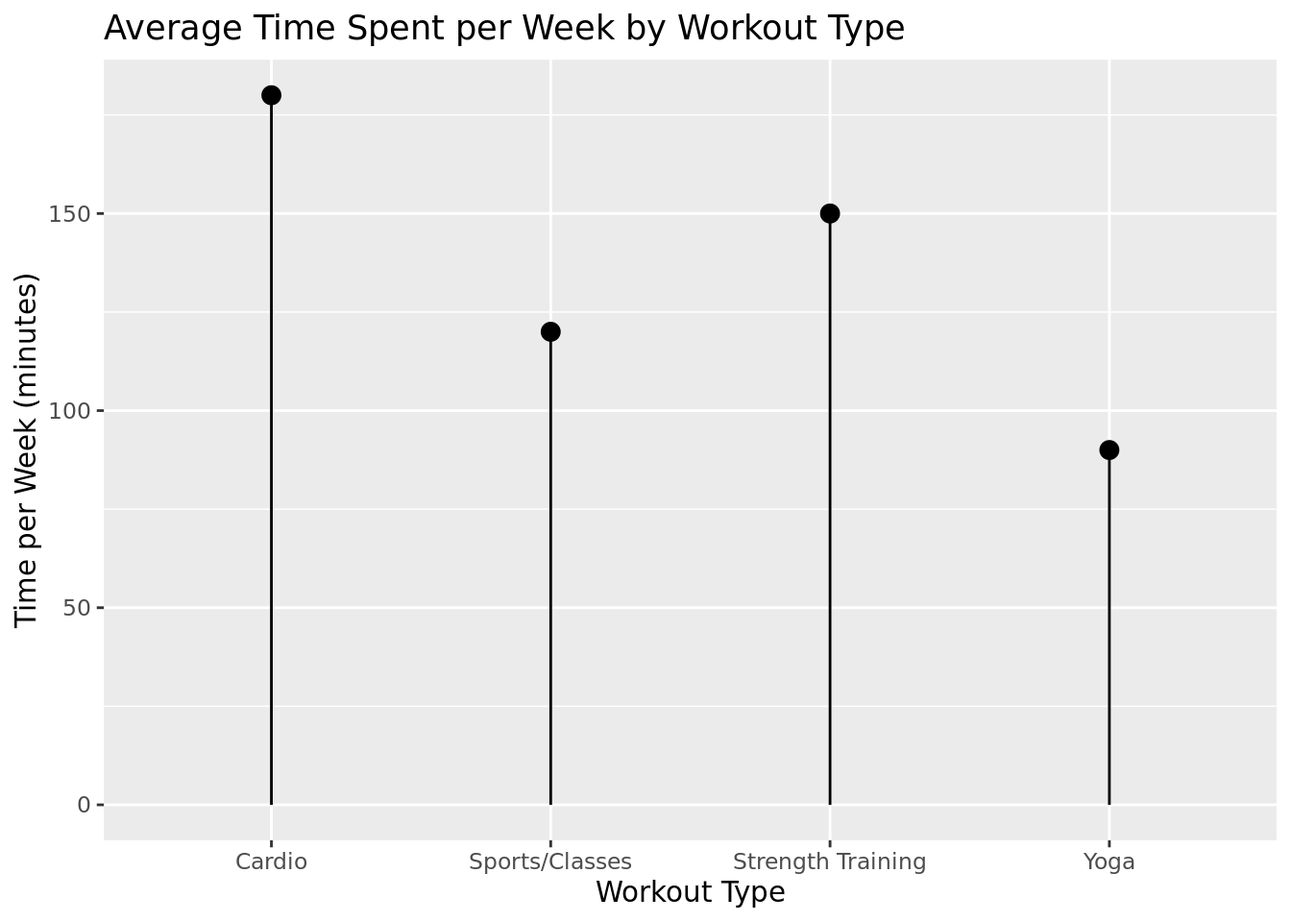
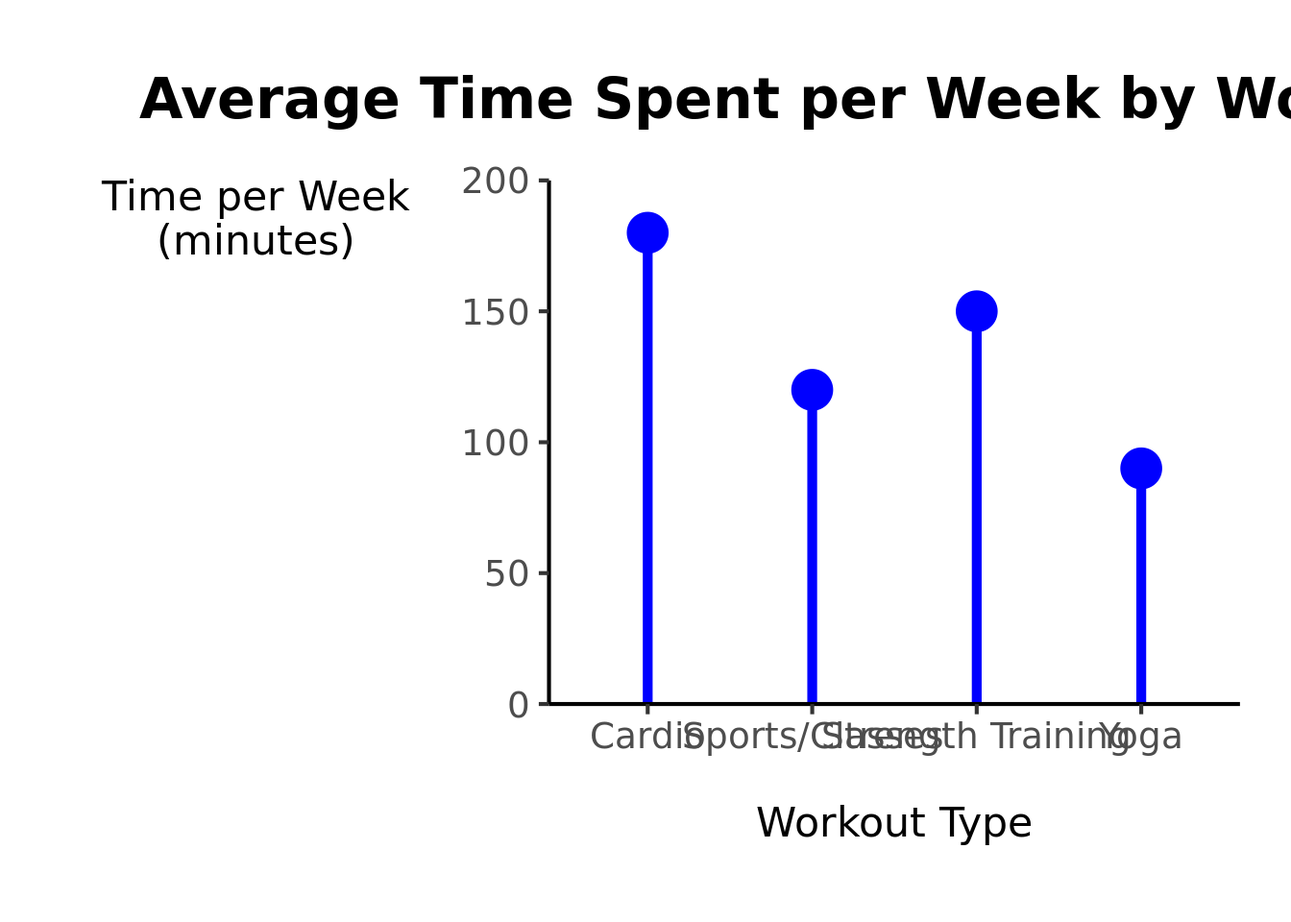
Updated scatter plot

diff --git a/project-r-code.html b/project-r-code.html
@@ -297,12 +297,41 @@ dbl (2): notebook_price, median_household_income
 </div>
 </div>
 </div>
+<p>Bar chart example:</p>
+<div class="cell">
+<div class="sourceCode cell-code" id="cb39"><pre class="sourceCode r code-with-copy"><code class="sourceCode r"><span id="cb39-1"><a href="#cb39-1" aria-hidden="true" tabindex="-1"></a>garden_data <span class="sc">|&gt;</span></span>
+<span id="cb39-2"><a href="#cb39-2" aria-hidden="true" tabindex="-1"></a>  <span class="fu">mutate</span>(<span class="at">site_location =</span> <span class="fu">ifelse</span>(site_location <span class="sc">==</span> <span class="st">"Centralish"</span>, </span>
+<span id="cb39-3"><a href="#cb39-3" aria-hidden="true" tabindex="-1"></a>                                <span class="st">"Central"</span>, site_location)) <span class="sc">|&gt;</span></span>
+<span id="cb39-4"><a href="#cb39-4" aria-hidden="true" tabindex="-1"></a>  <span class="fu">ggplot</span>(<span class="fu">aes</span>(<span class="at">x =</span> site_location, <span class="at">y =</span> current_volunteer_count)) <span class="sc">+</span></span>
+<span id="cb39-5"><a href="#cb39-5" aria-hidden="true" tabindex="-1"></a>  <span class="fu">geom_col</span>(<span class="at">fill =</span> <span class="st">"steelblue"</span>, <span class="at">width =</span> <span class="fl">0.4</span>) <span class="sc">+</span></span>
+<span id="cb39-6"><a href="#cb39-6" aria-hidden="true" tabindex="-1"></a>  <span class="fu">scale_y_continuous</span>(<span class="at">breaks =</span> <span class="fu">c</span>(<span class="dv">0</span>, <span class="dv">25</span>, <span class="dv">50</span>, <span class="dv">75</span>, <span class="dv">100</span>), </span>
+<span id="cb39-7"><a href="#cb39-7" aria-hidden="true" tabindex="-1"></a>                     <span class="at">expand =</span> <span class="fu">expansion</span>(<span class="at">mult =</span> <span class="fu">c</span>(<span class="dv">0</span>, <span class="fl">0.05</span>))) <span class="sc">+</span></span>
+<span id="cb39-8"><a href="#cb39-8" aria-hidden="true" tabindex="-1"></a>  <span class="fu">labs</span>(<span class="at">x =</span> <span class="st">"Site Location"</span>, <span class="at">y =</span> <span class="st">"Volunteers"</span>, </span>
+<span id="cb39-9"><a href="#cb39-9" aria-hidden="true" tabindex="-1"></a>  <span class="at">title =</span> <span class="st">"Current Volunteer Count by Garden Site"</span>) <span class="sc">+</span></span>
+<span id="cb39-10"><a href="#cb39-10" aria-hidden="true" tabindex="-1"></a>  <span class="fu">theme_classic</span>() <span class="sc">+</span></span>
+<span id="cb39-11"><a href="#cb39-11" aria-hidden="true" tabindex="-1"></a>  <span class="fu">theme</span>(</span>
+<span id="cb39-12"><a href="#cb39-12" aria-hidden="true" tabindex="-1"></a>    <span class="at">axis.text.x =</span> <span class="fu">element_text</span>(<span class="at">size =</span> <span class="dv">14</span>),  <span class="co"># Bigger x-axis labels</span></span>
+<span id="cb39-13"><a href="#cb39-13" aria-hidden="true" tabindex="-1"></a>    <span class="at">axis.title.x =</span> <span class="fu">element_text</span>(<span class="at">size =</span> <span class="dv">16</span>),</span>
+<span id="cb39-14"><a href="#cb39-14" aria-hidden="true" tabindex="-1"></a>    <span class="at">axis.title.y =</span> <span class="fu">element_text</span>(<span class="at">size =</span> <span class="dv">16</span>, <span class="at">angle =</span> <span class="dv">0</span>, <span class="at">vjust =</span> <span class="fl">1.05</span>, <span class="at">hjust =</span> <span class="dv">0</span>),</span>
+<span id="cb39-15"><a href="#cb39-15" aria-hidden="true" tabindex="-1"></a>    <span class="at">plot.title =</span> <span class="fu">element_text</span>(<span class="at">face =</span> <span class="st">"bold"</span>, <span class="at">hjust =</span> <span class="fl">0.5</span>),</span>
+<span id="cb39-16"><a href="#cb39-16" aria-hidden="true" tabindex="-1"></a>    <span class="at">panel.grid.major =</span> <span class="fu">element_blank</span>(),  <span class="co"># Remove major gridlines</span></span>
+<span id="cb39-17"><a href="#cb39-17" aria-hidden="true" tabindex="-1"></a>    <span class="at">panel.grid.minor =</span> <span class="fu">element_blank</span>()   <span class="co"># Remove minor gridlines</span></span>
+<span id="cb39-18"><a href="#cb39-18" aria-hidden="true" tabindex="-1"></a>  )</span></code><button title="Copy to Clipboard" class="code-copy-button"><i class="bi"></i></button></pre></div>
+<div class="cell-output-display">
+<div>
+<figure class="figure">
+<p><img src="project-r-code_files/figure-html/garden-bar-chart-1.png" class="img-fluid figure-img" width="672"></p>
+</figure>
+</div>
+</div>
+<div class="sourceCode cell-code" id="cb40"><pre class="sourceCode r code-with-copy"><code class="sourceCode r"><span id="cb40-1"><a href="#cb40-1" aria-hidden="true" tabindex="-1"></a><span class="fu">ggsave</span>(<span class="st">"garden_barchart.png"</span>, <span class="at">device =</span> <span class="st">"png"</span>, <span class="at">width =</span> <span class="dv">8</span>, <span class="at">height =</span> <span class="dv">5</span>)</span></code><button title="Copy to Clipboard" class="code-copy-button"><i class="bi"></i></button></pre></div>
+</div>
 <p>Scatter Plot Template:</p>
 <div class="cell">
-<div class="sourceCode cell-code" id="cb39"><pre class="sourceCode r code-with-copy"><code class="sourceCode r"><span id="cb39-1"><a href="#cb39-1" aria-hidden="true" tabindex="-1"></a><span class="fu">ggplot</span>() <span class="sc">+</span> </span>
-<span id="cb39-2"><a href="#cb39-2" aria-hidden="true" tabindex="-1"></a>  <span class="fu">geom_point</span>() <span class="sc">+</span></span>
-<span id="cb39-3"><a href="#cb39-3" aria-hidden="true" tabindex="-1"></a>  <span class="fu">labs</span>() <span class="sc">+</span></span>
-<span id="cb39-4"><a href="#cb39-4" aria-hidden="true" tabindex="-1"></a>  <span class="fu">theme_minimal</span>()</span></code><button title="Copy to Clipboard" class="code-copy-button"><i class="bi"></i></button></pre></div>
+<div class="sourceCode cell-code" id="cb41"><pre class="sourceCode r code-with-copy"><code class="sourceCode r"><span id="cb41-1"><a href="#cb41-1" aria-hidden="true" tabindex="-1"></a><span class="fu">ggplot</span>() <span class="sc">+</span> </span>
+<span id="cb41-2"><a href="#cb41-2" aria-hidden="true" tabindex="-1"></a>  <span class="fu">geom_point</span>() <span class="sc">+</span></span>
+<span id="cb41-3"><a href="#cb41-3" aria-hidden="true" tabindex="-1"></a>  <span class="fu">labs</span>() <span class="sc">+</span></span>
+<span id="cb41-4"><a href="#cb41-4" aria-hidden="true" tabindex="-1"></a>  <span class="fu">theme_minimal</span>()</span></code><button title="Copy to Clipboard" class="code-copy-button"><i class="bi"></i></button></pre></div>
 <div class="cell-output-display">
 <div>
 <figure class="figure">
@@ -311,42 +340,57 @@ dbl (2): notebook_price, median_household_income
 </div>
 </div>
 </div>
+<p>Scatter Plot Example</p>
 <div class="cell">
-<div class="sourceCode cell-code" id="cb40"><pre class="sourceCode r code-with-copy"><code class="sourceCode r"><span id="cb40-1"><a href="#cb40-1" aria-hidden="true" tabindex="-1"></a>volume_data <span class="ot">&lt;-</span> spotify_data <span class="sc">%&gt;%</span> </span>
-<span id="cb40-2"><a href="#cb40-2" aria-hidden="true" tabindex="-1"></a>  <span class="fu">filter</span>(Measure <span class="sc">==</span> <span class="st">"AvgVolumeLevel"</span>)</span>
-<span id="cb40-3"><a href="#cb40-3" aria-hidden="true" tabindex="-1"></a></span>
-<span id="cb40-4"><a href="#cb40-4" aria-hidden="true" tabindex="-1"></a>volume_data <span class="ot">&lt;-</span> volume_data <span class="sc">%&gt;%</span> </span>
-<span id="cb40-5"><a href="#cb40-5" aria-hidden="true" tabindex="-1"></a>  <span class="fu">mutate</span>(<span class="at">TimeOfDay =</span> <span class="fu">factor</span>(TimeOfDay, </span>
-<span id="cb40-6"><a href="#cb40-6" aria-hidden="true" tabindex="-1"></a>                            <span class="at">levels =</span> <span class="fu">c</span>(<span class="st">"Morning"</span>, <span class="st">"Afternoon"</span>, <span class="st">"Evening"</span>, <span class="st">"Night"</span>)))</span>
-<span id="cb40-7"><a href="#cb40-7" aria-hidden="true" tabindex="-1"></a></span>
-<span id="cb40-8"><a href="#cb40-8" aria-hidden="true" tabindex="-1"></a><span class="co">#| label: scatter-plot-template</span></span>
-<span id="cb40-9"><a href="#cb40-9" aria-hidden="true" tabindex="-1"></a><span class="fu">ggplot</span>(volume_data, <span class="fu">aes</span>(<span class="at">x =</span> TimeOfDay, <span class="at">y =</span> Value)) <span class="sc">+</span> </span>
-<span id="cb40-10"><a href="#cb40-10" aria-hidden="true" tabindex="-1"></a>  <span class="fu">geom_point</span>() <span class="sc">+</span></span>
-<span id="cb40-11"><a href="#cb40-11" aria-hidden="true" tabindex="-1"></a>  <span class="fu">scale_y_continuous</span>(<span class="at">limits =</span> <span class="fu">c</span>(<span class="dv">0</span>, <span class="dv">100</span>)) <span class="sc">+</span></span>
-<span id="cb40-12"><a href="#cb40-12" aria-hidden="true" tabindex="-1"></a>  <span class="fu">labs</span>(</span>
-<span id="cb40-13"><a href="#cb40-13" aria-hidden="true" tabindex="-1"></a>    <span class="at">title =</span> <span class="st">"Average Volume Level by Time of Day"</span>,</span>
-<span id="cb40-14"><a href="#cb40-14" aria-hidden="true" tabindex="-1"></a>    <span class="at">x =</span> <span class="st">"Time of Day"</span>,</span>
-<span id="cb40-15"><a href="#cb40-15" aria-hidden="true" tabindex="-1"></a>    <span class="at">y =</span> <span class="st">"Average Volume Level (dB)"</span></span>
-<span id="cb40-16"><a href="#cb40-16" aria-hidden="true" tabindex="-1"></a>  ) <span class="sc">+</span></span>
-<span id="cb40-17"><a href="#cb40-17" aria-hidden="true" tabindex="-1"></a>  <span class="fu">theme_minimal</span>()</span></code><button title="Copy to Clipboard" class="code-copy-button"><i class="bi"></i></button></pre></div>
+<div class="sourceCode cell-code" id="cb42"><pre class="sourceCode r code-with-copy"><code class="sourceCode r"><span id="cb42-1"><a href="#cb42-1" aria-hidden="true" tabindex="-1"></a>volume_data <span class="ot">&lt;-</span> spotify_data <span class="sc">%&gt;%</span> </span>
+<span id="cb42-2"><a href="#cb42-2" aria-hidden="true" tabindex="-1"></a>  <span class="fu">filter</span>(Measure <span class="sc">==</span> <span class="st">"AvgVolumeLevel"</span>)</span>
+<span id="cb42-3"><a href="#cb42-3" aria-hidden="true" tabindex="-1"></a></span>
+<span id="cb42-4"><a href="#cb42-4" aria-hidden="true" tabindex="-1"></a>volume_data <span class="ot">&lt;-</span> volume_data <span class="sc">%&gt;%</span> </span>
+<span id="cb42-5"><a href="#cb42-5" aria-hidden="true" tabindex="-1"></a>  <span class="fu">mutate</span>(<span class="at">TimeOfDay =</span> <span class="fu">factor</span>(TimeOfDay, </span>
+<span id="cb42-6"><a href="#cb42-6" aria-hidden="true" tabindex="-1"></a>                            <span class="at">levels =</span> <span class="fu">c</span>(<span class="st">"Morning"</span>, <span class="st">"Afternoon"</span>, <span class="st">"Evening"</span>, <span class="st">"Night"</span>)))</span>
+<span id="cb42-7"><a href="#cb42-7" aria-hidden="true" tabindex="-1"></a></span>
+<span id="cb42-8"><a href="#cb42-8" aria-hidden="true" tabindex="-1"></a><span class="co">#| label: scatter-plot-template</span></span>
+<span id="cb42-9"><a href="#cb42-9" aria-hidden="true" tabindex="-1"></a><span class="fu">ggplot</span>(volume_data, <span class="fu">aes</span>(<span class="at">x =</span> TimeOfDay, <span class="at">y =</span> Value)) <span class="sc">+</span> </span>
+<span id="cb42-10"><a href="#cb42-10" aria-hidden="true" tabindex="-1"></a>  <span class="fu">geom_point</span>(<span class="at">color =</span> <span class="st">"blue"</span>, <span class="at">size =</span> <span class="dv">7</span>) <span class="sc">+</span></span>
+<span id="cb42-11"><a href="#cb42-11" aria-hidden="true" tabindex="-1"></a>  <span class="fu">scale_y_continuous</span>(<span class="at">limits =</span> <span class="fu">c</span>(<span class="dv">0</span>, <span class="dv">100</span>)) <span class="sc">+</span></span>
+<span id="cb42-12"><a href="#cb42-12" aria-hidden="true" tabindex="-1"></a>  <span class="fu">labs</span>(</span>
+<span id="cb42-13"><a href="#cb42-13" aria-hidden="true" tabindex="-1"></a>    <span class="at">title =</span> <span class="st">"Average Volume Level by Time of Day"</span>,</span>
+<span id="cb42-14"><a href="#cb42-14" aria-hidden="true" tabindex="-1"></a>    <span class="at">x =</span> <span class="st">" "</span>,</span>
+<span id="cb42-15"><a href="#cb42-15" aria-hidden="true" tabindex="-1"></a>    <span class="at">y =</span> <span class="st">"Volume Level</span><span class="sc">\n</span><span class="st">(dB)"</span></span>
+<span id="cb42-16"><a href="#cb42-16" aria-hidden="true" tabindex="-1"></a>  ) <span class="sc">+</span></span>
+<span id="cb42-17"><a href="#cb42-17" aria-hidden="true" tabindex="-1"></a>  <span class="fu">theme_classic</span>() <span class="sc">+</span></span>
+<span id="cb42-18"><a href="#cb42-18" aria-hidden="true" tabindex="-1"></a>  <span class="fu">theme</span>(</span>
+<span id="cb42-19"><a href="#cb42-19" aria-hidden="true" tabindex="-1"></a>  <span class="at">axis.text.x =</span> <span class="fu">element_text</span>(<span class="at">size =</span> <span class="dv">14</span>),</span>
+<span id="cb42-20"><a href="#cb42-20" aria-hidden="true" tabindex="-1"></a>  <span class="at">axis.title.x =</span> <span class="fu">element_text</span>(<span class="at">size =</span> <span class="dv">16</span>),</span>
+<span id="cb42-21"><a href="#cb42-21" aria-hidden="true" tabindex="-1"></a>  <span class="at">axis.title.y =</span> <span class="fu">element_text</span>(<span class="at">size =</span> <span class="dv">16</span>, <span class="at">angle =</span> <span class="dv">0</span>, <span class="at">vjust =</span> <span class="fl">1.05</span>, <span class="at">hjust =</span> <span class="dv">0</span>),</span>
+<span id="cb42-22"><a href="#cb42-22" aria-hidden="true" tabindex="-1"></a>  <span class="at">plot.title =</span> <span class="fu">element_text</span>(</span>
+<span id="cb42-23"><a href="#cb42-23" aria-hidden="true" tabindex="-1"></a>    <span class="at">face =</span> <span class="st">"bold"</span>,</span>
+<span id="cb42-24"><a href="#cb42-24" aria-hidden="true" tabindex="-1"></a>    <span class="at">hjust =</span> <span class="fl">0.5</span>,</span>
+<span id="cb42-25"><a href="#cb42-25" aria-hidden="true" tabindex="-1"></a>    <span class="at">size =</span> <span class="dv">18</span>,                       <span class="co"># Bigger title</span></span>
+<span id="cb42-26"><a href="#cb42-26" aria-hidden="true" tabindex="-1"></a>    <span class="at">margin =</span> <span class="fu">margin</span>(<span class="at">b =</span> <span class="dv">50</span>)          <span class="co"># Adds space *below* the title</span></span>
+<span id="cb42-27"><a href="#cb42-27" aria-hidden="true" tabindex="-1"></a>  ),</span>
+<span id="cb42-28"><a href="#cb42-28" aria-hidden="true" tabindex="-1"></a>  <span class="at">axis.ticks.x =</span> <span class="fu">element_blank</span>(),</span>
+<span id="cb42-29"><a href="#cb42-29" aria-hidden="true" tabindex="-1"></a>  <span class="at">panel.grid.major =</span> <span class="fu">element_blank</span>(),</span>
+<span id="cb42-30"><a href="#cb42-30" aria-hidden="true" tabindex="-1"></a>  <span class="at">panel.grid.minor =</span> <span class="fu">element_blank</span>()</span>
+<span id="cb42-31"><a href="#cb42-31" aria-hidden="true" tabindex="-1"></a>)</span></code><button title="Copy to Clipboard" class="code-copy-button"><i class="bi"></i></button></pre></div>
 <div class="cell-output-display">
 <div>
 <figure class="figure">
-<p><img src="project-r-code_files/figure-html/unnamed-chunk-5-1.png" class="img-fluid figure-img" width="672"></p>
+<p><img src="project-r-code_files/figure-html/unnamed-chunk-6-1.png" class="img-fluid figure-img" width="672"></p>
 </figure>
 </div>
 </div>
 </div>
 <p>Lollipop chart template:</p>
 <div class="cell">
-<div class="sourceCode cell-code" id="cb41"><pre class="sourceCode r code-with-copy"><code class="sourceCode r"><span id="cb41-1"><a href="#cb41-1" aria-hidden="true" tabindex="-1"></a><span class="fu">ggplot</span>() <span class="sc">+</span></span>
-<span id="cb41-2"><a href="#cb41-2" aria-hidden="true" tabindex="-1"></a>  <span class="fu">geom_segment</span>() <span class="sc">+</span></span>
-<span id="cb41-3"><a href="#cb41-3" aria-hidden="true" tabindex="-1"></a>  <span class="fu">geom_point</span>(<span class="at">size =</span> <span class="dv">3</span>) <span class="sc">+</span></span>
-<span id="cb41-4"><a href="#cb41-4" aria-hidden="true" tabindex="-1"></a>  <span class="fu">labs</span>(</span>
-<span id="cb41-5"><a href="#cb41-5" aria-hidden="true" tabindex="-1"></a>    <span class="at">title =</span> <span class="st">""</span>,</span>
-<span id="cb41-6"><a href="#cb41-6" aria-hidden="true" tabindex="-1"></a>    <span class="at">x =</span> <span class="st">""</span>,</span>
-<span id="cb41-7"><a href="#cb41-7" aria-hidden="true" tabindex="-1"></a>    <span class="at">y =</span> <span class="st">""</span></span>
-<span id="cb41-8"><a href="#cb41-8" aria-hidden="true" tabindex="-1"></a>  )</span></code><button title="Copy to Clipboard" class="code-copy-button"><i class="bi"></i></button></pre></div>
+<div class="sourceCode cell-code" id="cb43"><pre class="sourceCode r code-with-copy"><code class="sourceCode r"><span id="cb43-1"><a href="#cb43-1" aria-hidden="true" tabindex="-1"></a><span class="fu">ggplot</span>() <span class="sc">+</span></span>
+<span id="cb43-2"><a href="#cb43-2" aria-hidden="true" tabindex="-1"></a>  <span class="fu">geom_segment</span>() <span class="sc">+</span></span>
+<span id="cb43-3"><a href="#cb43-3" aria-hidden="true" tabindex="-1"></a>  <span class="fu">geom_point</span>(<span class="at">size =</span> <span class="dv">3</span>) <span class="sc">+</span></span>
+<span id="cb43-4"><a href="#cb43-4" aria-hidden="true" tabindex="-1"></a>  <span class="fu">labs</span>(</span>
+<span id="cb43-5"><a href="#cb43-5" aria-hidden="true" tabindex="-1"></a>    <span class="at">title =</span> <span class="st">""</span>,</span>
+<span id="cb43-6"><a href="#cb43-6" aria-hidden="true" tabindex="-1"></a>    <span class="at">x =</span> <span class="st">""</span>,</span>
+<span id="cb43-7"><a href="#cb43-7" aria-hidden="true" tabindex="-1"></a>    <span class="at">y =</span> <span class="st">""</span></span>
+<span id="cb43-8"><a href="#cb43-8" aria-hidden="true" tabindex="-1"></a>  )</span></code><button title="Copy to Clipboard" class="code-copy-button"><i class="bi"></i></button></pre></div>
 <div class="cell-output-display">
 <div>
 <figure class="figure">
@@ -357,14 +401,43 @@ dbl (2): notebook_price, median_household_income
 </div>
 <p>Lollipop chart example:</p>
 <div class="cell">
-<div class="sourceCode cell-code" id="cb42"><pre class="sourceCode r code-with-copy"><code class="sourceCode r"><span id="cb42-1"><a href="#cb42-1" aria-hidden="true" tabindex="-1"></a><span class="fu">ggplot</span>(workout_data, <span class="fu">aes</span>(<span class="at">x =</span> workout_type, <span class="at">y =</span> time_per_week_minutes)) <span class="sc">+</span></span>
-<span id="cb42-2"><a href="#cb42-2" aria-hidden="true" tabindex="-1"></a>  <span class="fu">geom_segment</span>(<span class="fu">aes</span>(<span class="at">xend =</span> workout_type, <span class="at">yend =</span> <span class="dv">0</span>)) <span class="sc">+</span></span>
-<span id="cb42-3"><a href="#cb42-3" aria-hidden="true" tabindex="-1"></a>  <span class="fu">geom_point</span>(<span class="at">size =</span> <span class="dv">3</span>) <span class="sc">+</span></span>
-<span id="cb42-4"><a href="#cb42-4" aria-hidden="true" tabindex="-1"></a>  <span class="fu">labs</span>(</span>
-<span id="cb42-5"><a href="#cb42-5" aria-hidden="true" tabindex="-1"></a>    <span class="at">title =</span> <span class="st">"Average Time Spent per Week by Workout Type"</span>,</span>
-<span id="cb42-6"><a href="#cb42-6" aria-hidden="true" tabindex="-1"></a>    <span class="at">x =</span> <span class="st">"Workout Type"</span>,</span>
-<span id="cb42-7"><a href="#cb42-7" aria-hidden="true" tabindex="-1"></a>    <span class="at">y =</span> <span class="st">"Time per Week (minutes)"</span></span>
-<span id="cb42-8"><a href="#cb42-8" aria-hidden="true" tabindex="-1"></a>  )</span></code><button title="Copy to Clipboard" class="code-copy-button"><i class="bi"></i></button></pre></div>
+<div class="sourceCode cell-code" id="cb44"><pre class="sourceCode r code-with-copy"><code class="sourceCode r"><span id="cb44-1"><a href="#cb44-1" aria-hidden="true" tabindex="-1"></a>ymax <span class="ot">&lt;-</span> <span class="fu">max</span>(workout_data<span class="sc">$</span>time_per_week_minutes, <span class="at">na.rm =</span> <span class="cn">TRUE</span>)</span>
+<span id="cb44-2"><a href="#cb44-2" aria-hidden="true" tabindex="-1"></a>yupper <span class="ot">&lt;-</span> <span class="fu">max</span>(<span class="dv">200</span>, <span class="fu">ceiling</span>(ymax <span class="sc">/</span> <span class="dv">50</span>) <span class="sc">*</span> <span class="dv">50</span>)</span>
+<span id="cb44-3"><a href="#cb44-3" aria-hidden="true" tabindex="-1"></a></span>
+<span id="cb44-4"><a href="#cb44-4" aria-hidden="true" tabindex="-1"></a><span class="fu">ggplot</span>(workout_data, <span class="fu">aes</span>(<span class="at">x =</span> workout_type, <span class="at">y =</span> time_per_week_minutes)) <span class="sc">+</span></span>
+<span id="cb44-5"><a href="#cb44-5" aria-hidden="true" tabindex="-1"></a>  <span class="fu">geom_segment</span>(<span class="fu">aes</span>(<span class="at">xend =</span> workout_type, <span class="at">yend =</span> <span class="dv">0</span>),</span>
+<span id="cb44-6"><a href="#cb44-6" aria-hidden="true" tabindex="-1"></a>               <span class="at">color =</span> <span class="st">"blue"</span>, <span class="at">linewidth =</span> <span class="fl">1.8</span>) <span class="sc">+</span></span>
+<span id="cb44-7"><a href="#cb44-7" aria-hidden="true" tabindex="-1"></a>  <span class="fu">geom_point</span>(<span class="at">color =</span> <span class="st">"blue"</span>, <span class="at">size =</span> <span class="dv">7</span>) <span class="sc">+</span></span>
+<span id="cb44-8"><a href="#cb44-8" aria-hidden="true" tabindex="-1"></a>  <span class="fu">labs</span>(</span>
+<span id="cb44-9"><a href="#cb44-9" aria-hidden="true" tabindex="-1"></a>    <span class="at">title =</span> <span class="st">"Average Time Spent per Week by Workout Type"</span>,</span>
+<span id="cb44-10"><a href="#cb44-10" aria-hidden="true" tabindex="-1"></a>    <span class="at">x =</span> <span class="st">"Workout Type"</span>,</span>
+<span id="cb44-11"><a href="#cb44-11" aria-hidden="true" tabindex="-1"></a>    <span class="at">y =</span> <span class="st">"Time per Week</span><span class="sc">\n</span><span class="st">(minutes)"</span></span>
+<span id="cb44-12"><a href="#cb44-12" aria-hidden="true" tabindex="-1"></a>  ) <span class="sc">+</span></span>
+<span id="cb44-13"><a href="#cb44-13" aria-hidden="true" tabindex="-1"></a>  <span class="fu">scale_y_continuous</span>(</span>
+<span id="cb44-14"><a href="#cb44-14" aria-hidden="true" tabindex="-1"></a>    <span class="at">limits =</span> <span class="fu">c</span>(<span class="dv">0</span>, yupper),</span>
+<span id="cb44-15"><a href="#cb44-15" aria-hidden="true" tabindex="-1"></a>    <span class="at">breaks =</span> <span class="fu">seq</span>(<span class="dv">0</span>, yupper, <span class="at">by =</span> <span class="dv">50</span>),</span>
+<span id="cb44-16"><a href="#cb44-16" aria-hidden="true" tabindex="-1"></a>    <span class="at">expand =</span> <span class="fu">c</span>(<span class="dv">0</span>, <span class="dv">0</span>)                <span class="co"># makes lines touch x-axis</span></span>
+<span id="cb44-17"><a href="#cb44-17" aria-hidden="true" tabindex="-1"></a>  ) <span class="sc">+</span></span>
+<span id="cb44-18"><a href="#cb44-18" aria-hidden="true" tabindex="-1"></a>  <span class="fu">theme_classic</span>(<span class="at">base_size =</span> <span class="dv">16</span>) <span class="sc">+</span></span>
+<span id="cb44-19"><a href="#cb44-19" aria-hidden="true" tabindex="-1"></a>  <span class="fu">theme</span>(</span>
+<span id="cb44-20"><a href="#cb44-20" aria-hidden="true" tabindex="-1"></a>    <span class="at">plot.title =</span> <span class="fu">element_text</span>(</span>
+<span id="cb44-21"><a href="#cb44-21" aria-hidden="true" tabindex="-1"></a>      <span class="at">size =</span> <span class="dv">22</span>, </span>
+<span id="cb44-22"><a href="#cb44-22" aria-hidden="true" tabindex="-1"></a>      <span class="at">face =</span> <span class="st">"bold"</span>, </span>
+<span id="cb44-23"><a href="#cb44-23" aria-hidden="true" tabindex="-1"></a>      <span class="at">hjust =</span> <span class="fl">0.5</span>, </span>
+<span id="cb44-24"><a href="#cb44-24" aria-hidden="true" tabindex="-1"></a>      <span class="at">margin =</span> <span class="fu">margin</span>(<span class="at">t =</span> <span class="dv">20</span>, <span class="at">b =</span> <span class="dv">20</span>)</span>
+<span id="cb44-25"><a href="#cb44-25" aria-hidden="true" tabindex="-1"></a>    ),</span>
+<span id="cb44-26"><a href="#cb44-26" aria-hidden="true" tabindex="-1"></a>    <span class="at">axis.text =</span> <span class="fu">element_text</span>(<span class="at">size =</span> <span class="dv">14</span>),</span>
+<span id="cb44-27"><a href="#cb44-27" aria-hidden="true" tabindex="-1"></a>    <span class="at">axis.title.x =</span> <span class="fu">element_text</span>(<span class="at">size =</span> <span class="dv">16</span>, <span class="at">margin =</span> <span class="fu">margin</span>(<span class="at">t =</span> <span class="dv">20</span>, <span class="at">b =</span> <span class="dv">20</span>)),</span>
+<span id="cb44-28"><a href="#cb44-28" aria-hidden="true" tabindex="-1"></a>    <span class="at">axis.title.y =</span> <span class="fu">element_text</span>(</span>
+<span id="cb44-29"><a href="#cb44-29" aria-hidden="true" tabindex="-1"></a>      <span class="at">angle =</span> <span class="dv">0</span>,                   <span class="co"># horizontal (right-side-up)</span></span>
+<span id="cb44-30"><a href="#cb44-30" aria-hidden="true" tabindex="-1"></a>      <span class="at">vjust =</span> <span class="dv">1</span>,                </span>
+<span id="cb44-31"><a href="#cb44-31" aria-hidden="true" tabindex="-1"></a>      <span class="at">hjust =</span> <span class="fl">0.5</span>,</span>
+<span id="cb44-32"><a href="#cb44-32" aria-hidden="true" tabindex="-1"></a>      <span class="at">size =</span> <span class="dv">16</span>,</span>
+<span id="cb44-33"><a href="#cb44-33" aria-hidden="true" tabindex="-1"></a>      <span class="at">margin =</span> <span class="fu">margin</span>(<span class="at">r =</span> <span class="dv">20</span>)</span>
+<span id="cb44-34"><a href="#cb44-34" aria-hidden="true" tabindex="-1"></a>    ),</span>
+<span id="cb44-35"><a href="#cb44-35" aria-hidden="true" tabindex="-1"></a>    <span class="at">plot.margin =</span> <span class="fu">margin</span>(<span class="dv">10</span>, <span class="dv">20</span>, <span class="dv">10</span>, <span class="dv">40</span>)</span>
+<span id="cb44-36"><a href="#cb44-36" aria-hidden="true" tabindex="-1"></a>  ) <span class="sc">+</span></span>
+<span id="cb44-37"><a href="#cb44-37" aria-hidden="true" tabindex="-1"></a>  <span class="fu">coord_cartesian</span>(<span class="at">clip =</span> <span class="st">"off"</span>)</span></code><button title="Copy to Clipboard" class="code-copy-button"><i class="bi"></i></button></pre></div>
 <div class="cell-output-display">
 <div>
 <figure class="figure">
@@ -372,6 +445,7 @@ dbl (2): notebook_price, median_household_income
 </figure>
 </div>
 </div>
+<div class="sourceCode cell-code" id="cb45"><pre class="sourceCode r code-with-copy"><code class="sourceCode r"><span id="cb45-1"><a href="#cb45-1" aria-hidden="true" tabindex="-1"></a><span class="fu">ggsave</span>(<span class="st">"workout_lollipop.png"</span>, <span class="at">device =</span> <span class="st">"png"</span>, <span class="at">width =</span> <span class="dv">14</span>, <span class="at">height =</span> <span class="dv">8</span>)</span></code><button title="Copy to Clipboard" class="code-copy-button"><i class="bi"></i></button></pre></div>
 </div>
 
 </main>
